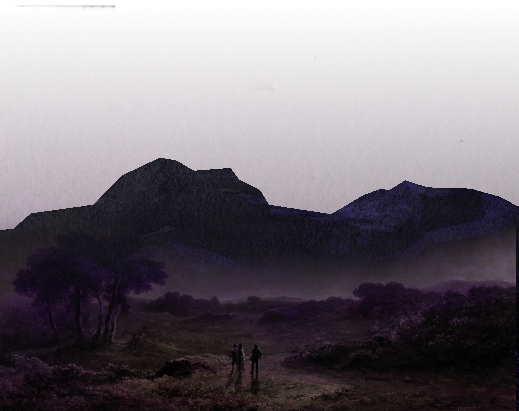
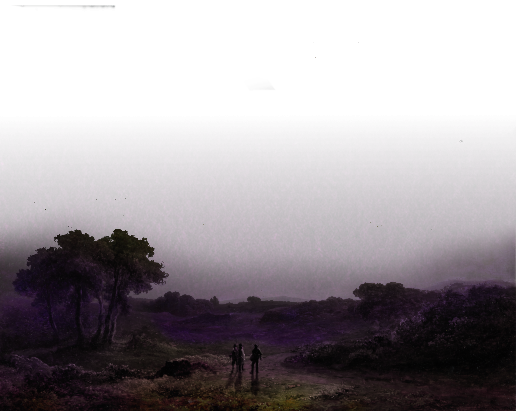
Graphical adjustment to introModal.

diff --git a/js/game/ui/moonWidget.js b/js/game/ui/moonWidget.js
@@ -199,15 +199,23 @@ export function createMoonWidget(opts = {}) {
             _lpStart(clientX, clientY ?? 0)
         }
 
-        const onMove = (clientX, clientY) => {
-            if (!dragging) return
-            _lpCheckMove(clientX, clientY ?? dragStartY)
-            const range = showSlider && wrapperEl
-                ? wrapperEl.offsetWidth - moonR * 2
-                : SWIPE_RANGE()
-            const delta = (clientX - dragStartX) / range
-            _setPhaseInternal(phaseAtStart + delta)
-        }
+       const onMove = (clientX, clientY) => {
+    if (!dragging) return
+    _lpCheckMove(clientX, clientY ?? dragStartY)
+    const range = showSlider && wrapperEl
+        ? wrapperEl.offsetWidth - moonR * 2
+        : SWIPE_RANGE()
+    // Use total distance in any direction, not just horizontal
+    const dx = clientX - dragStartX
+    const dy = clientY - (dragStartY ?? 0)
+    const dist = Math.sqrt(dx * dx + dy * dy)
+    // Preserve sign based on whichever axis is dominant
+    const sign = Math.abs(dx) >= Math.abs(dy)
+        ? Math.sign(dx)
+        : Math.sign(-dy) // upward swipe = increasing phase
+    const delta = (dist * sign) / range
+    _setPhaseInternal(phaseAtStart + delta)
+} 
 
         const onEnd = (clientX) => {
             if (!dragging) return

diff --git a/js/introModal.js b/js/introModal.js
@@ -117,6 +117,7 @@ export function initConstellationScene(onComplete) {
     _sceneInitialized = true;
     _fullscreenDone = false;
     document.fonts.load('1.8rem Urchlo').catch(() => {});
+    document.fonts.load('1.8rem Aonchlo').catch(() => {});
     const game = new Phaser.Game({
         type: Phaser.AUTO, width: window.innerWidth, height: window.innerHeight,
         backgroundColor: '#00060f', parent: 'gameContainer',
@@ -197,7 +198,7 @@ const RIPPLE_MS = 900, RIPPLE_MAX_R = 55, RIPPLE_ALPHA = 0.75;
 // ── Moon rest position ────────────────────────────────────────────────────────
 // Fixed px from the bottom edge of the screen after swipe.
 // This is the only value you need to tune — consistent across all window sizes.
-const MOON_REST_FROM_BOTTOM = 220;
+const MOON_REST_FROM_BOTTOM = 120;
 
 const AMERGIN_LINES = [
     { ga: 'Cé an té le nod slí na gcloch sléibhe?', en: 'Who knows the way of the mountain stones?' },
@@ -438,7 +439,16 @@ export class ConstellationScene extends Phaser.Scene {
         });
 
         // Position moon at 35vh to start
-        const wrapper = this._moonWidget.element;
+    
+const wrapper = this._moonWidget.element;
+if (wrapper) {
+    const earlyUnlock = () => {
+        _requestFullscreen();
+        _unlockAudio();
+        wrapper.removeEventListener('pointerdown', earlyUnlock);
+    };
+    wrapper.addEventListener('pointerdown', earlyUnlock, { passive: true });
+}
         if (wrapper) {
             const moonD    = this._moonWidget.moonD;
             const pad      = 18;

diff --git a/data/constellationTexts.js b/data/constellationTexts.js
@@ -4,9 +4,13 @@ export const constellationTexts = {
     // ── Cú na Féinne — The Hound of the Fianna (Orion) ──────────────────────
     cu: {
         waiting: [
-            {
-                ga: 'Tríd oichí fada gan codladh a bhanríonn, tá córthaí na spéire cúrtaithe agam',
-                en: 'Through long and sleepless nights o queen, I have searched the signs of the sky.',
+             {
+                ga: 'Tríd oichí fada gan codladh a bhanríonn,',
+                en: 'Through long and sleepless nights o queen,',
+                speaker: 'druid',
+            },{
+                ga: 'tá córthaí na spéire cúrtaithe agam',
+                en: 'I have searched the signs of the sky',
                 speaker: 'druid',
             },
             {